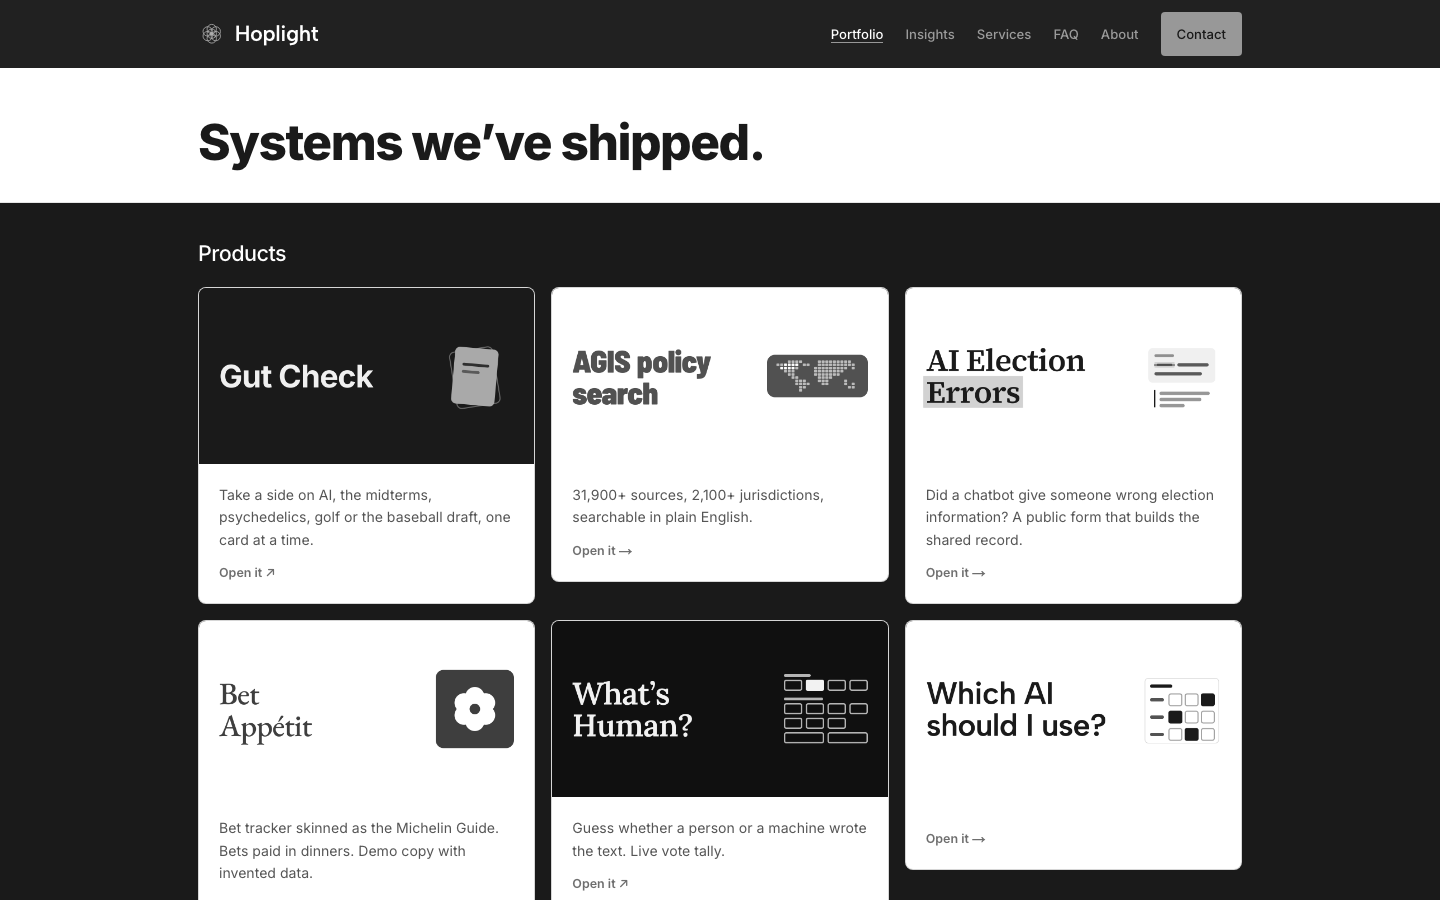
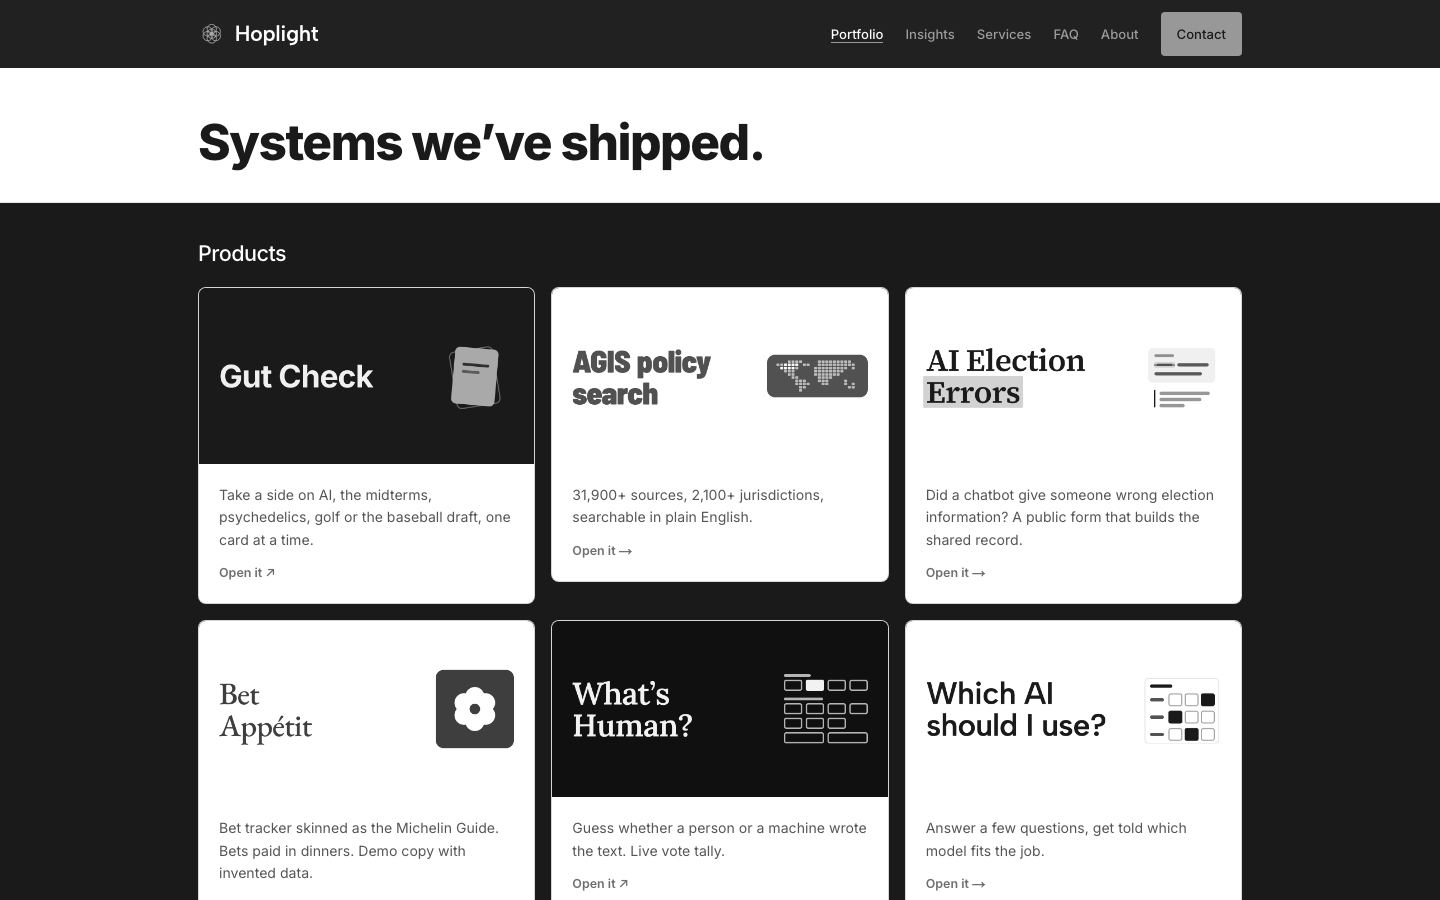
portfolio: every entry draws its line. Which AI leaves the hidden-line list, which is then empty, so the list and its two checks go. Test red first (2 of 10 failing), then 204 of 204; round3 re-rendered: Reports at screen 1.97 at 375 today.

Changed region(s): [[0.625, 0.9022, 0.875, 1.0]]

diff --git a/src/app/(main)/portfolio/page.tsx b/src/app/(main)/portfolio/page.tsx
@@ -26,12 +26,10 @@ export const metadata: Metadata = toolMetadata('portfolio', {
   ogDescription: 'Systems we’ve shipped.',
 });
 
-// Tiles whose line only says the tool's name again in other words, so the line is not drawn here (the
-// card above it already shows the name). The line itself stays in src/data/tools.ts, which belongs to the
-// tool drops and is not edited from here. HOPSITE2, 2026-11-07.
-// Oregon left this list on 2026-11-07 (design review of PORTSPLIT1, fix 2): its row in Reports shows its
-// one line, as DNC and GE do.
-const RESTATES_NAME = new Set(['which-ai-should-i-use']);
+// Every entry draws its line. HOPSITE2 (2026-11-07) hid the line on two tiles whose line restated the
+// name; PORTSPLIT1's design review the same day put Oregon's back (its empty gap read as a fault), and the
+// dispatcher's follow-up put Which AI's back, so the hidden list went. scripts/portfolio-shelf.test.mjs
+// keeps every line drawn.
 
 export default function Portfolio() {
   const clock = portfolioClock(process.env);
@@ -83,7 +81,7 @@ export default function Portfolio() {
                         </div>
                         <div className="wcard-body">
                           <h3 className="sr-only">{p.name}</h3>
-                          {!RESTATES_NAME.has(p.slug) && <p>{p.line}</p>}
+                          <p>{p.line}</p>
                           <span className="wc-go">
                             {/* One action, one label (HOPSITE2 review, 2026-11-07): "Open the live app" went. A tile that
                                 leaves the site shows the outward arrow alone (design review, same day). */}
@@ -112,7 +110,7 @@ export default function Portfolio() {
                             the line, matching the products' "Open it", so a row reads as a link on a phone. It
                             sits under the text, not in a right-hand column, so no second gold column forms. */}
                         <h3>{p.name}</h3>
-                        {!RESTATES_NAME.has(p.slug) && <p>{p.line}</p>}
+                        <p>{p.line}</p>
                         <span className="wc-go">
                           Read it{' '}
                           {external ? <span aria-hidden="true">↗</span> : <>&rarr;</>}
